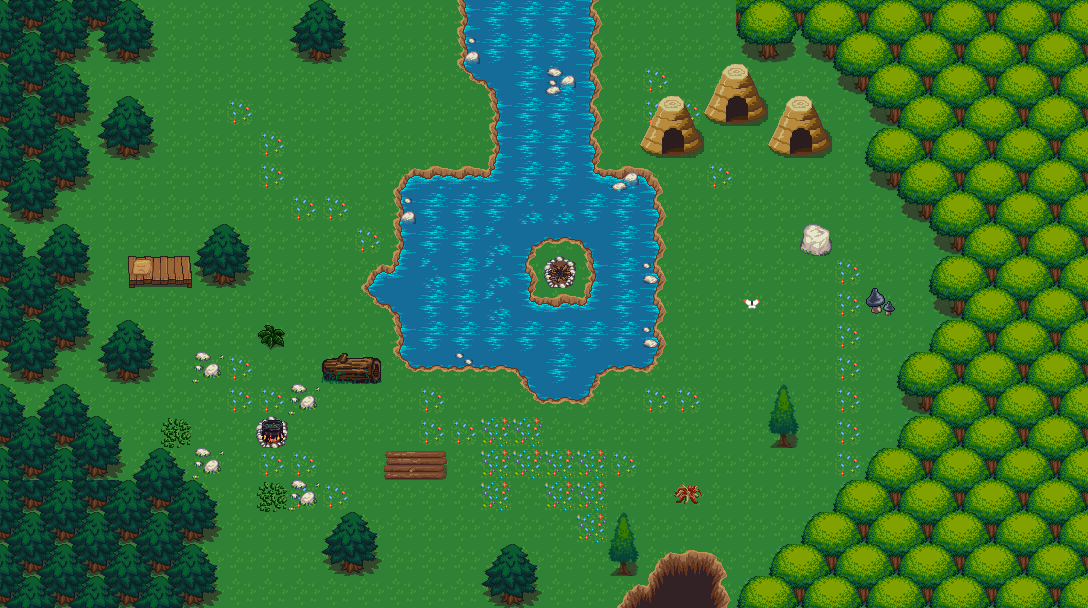
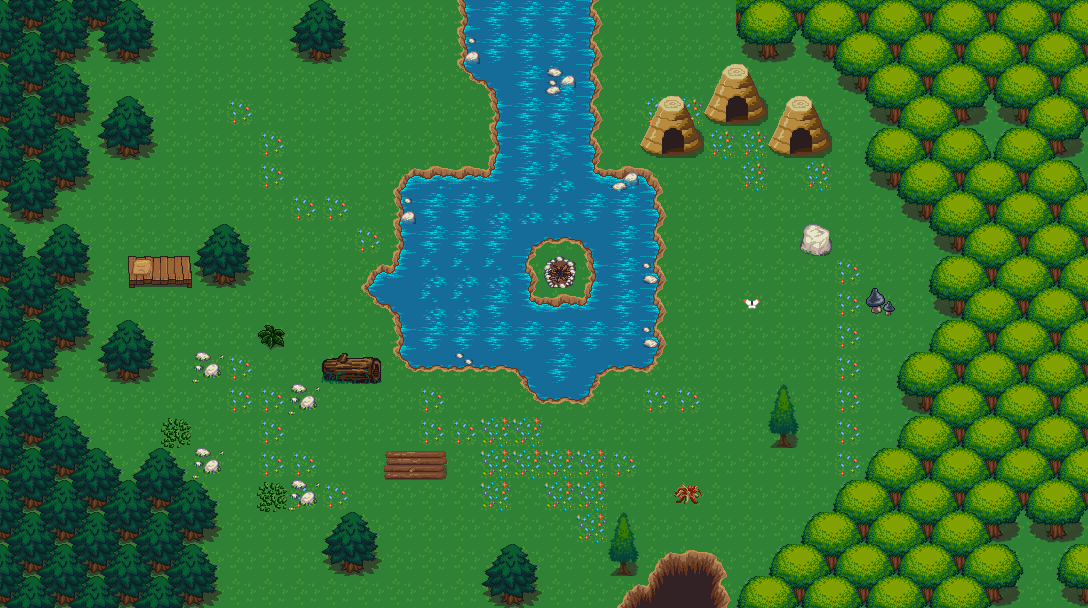
Le feu

diff --git a/Map.js b/Map.js
@@ -8,6 +8,7 @@ class Map extends Phaser.Scene {
         this.load.image('tiles', 'assets/forest_tiles.png');
         this.load.tilemapTiledJSON('map', 'assets/foret.json');
         this.load.image('tantes', 'assets/tantes.png');
+        this.load.spritesheet('objets', 'assets/forest_tiles.png', {frameWidth: 32, frameHeight:32});
 
         this.load.audio('son_nature', ['assets/son_nature.mp3']);
     }
@@ -23,6 +24,16 @@ class Map extends Phaser.Scene {
         var tantes = this.add.image(t_coo(20), t_coo(2), 'tantes');
         tantes.setOrigin(0).setInteractive();
         
+        var feu = this.add.sprite(t_coo(8), t_coo(13), 'objets', 81);
+        this.anims.create( {
+            key: 'crepitement',
+            frames: this.anims.generateFrameNumbers('objets', { start: 81, end: 83, first: 81 }),
+            frameRate: 10,
+            repeat: -1
+        });
+        feu.anims.play('crepitement');
+
+
         this.input.once('pointerup', function () {
             this.scene.start('Tante');
         }, this);
